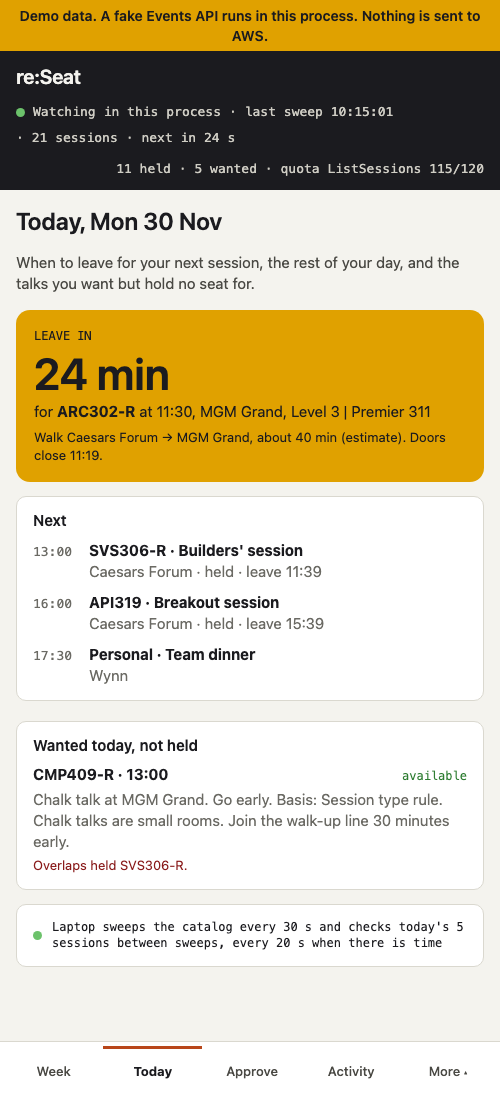
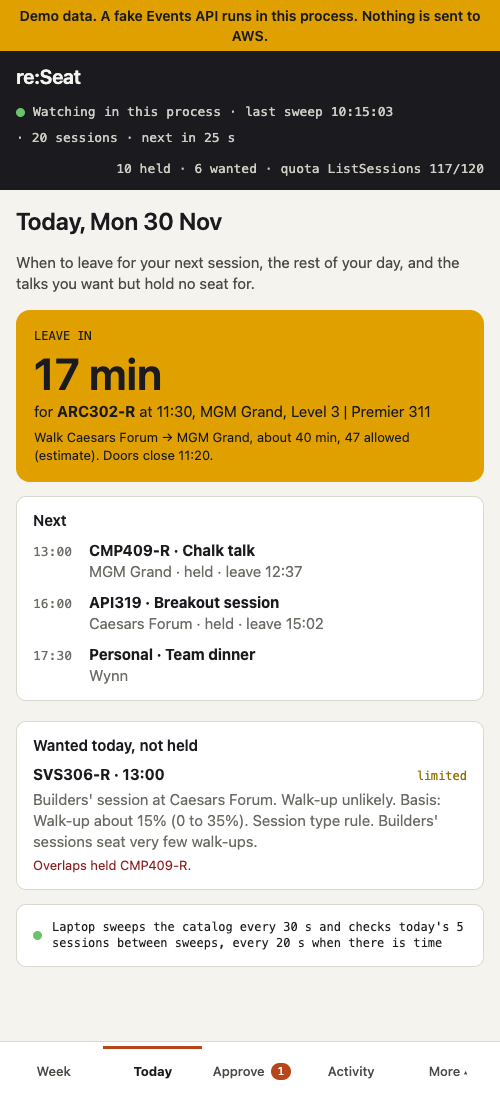
Show the real door time: AWS closes doors 10 minutes before (#18)
* Show the real door time: AWS closes doors 10 minutes before

AWS releases a reserved seat if the attendee is not there "at least
ten minutes prior to the session start time" (AWS re:Invent FAQ).
re:Seat plans arrivals 11 minutes before the start, one minute inside
that, but every screen that said "Doors close" showed the 11-minute
time.

Add campus.DOORS_CLOSE_MINUTES = 10. The Today hero and the week's
detail Leave row now show the real door time. check_plan's walk text
names both: lateness against the arrive-by time, and when the doors
close. Fit checks, lateness and leave-now blocks still use
CUTOFF_MINUTES (11), so no leave time moves and blocks already in the
official schedule are not rewritten. Docs, the MCP tool description
and the changelog now call 11 the arrive-by time.

* Refresh the demo GIF and screenshots from the current demo

The GIF and the four demo screenshots dated from 11 October and showed
"Doors close 11:19". Recaptured from reseat serve --demo on this
branch at the same sizes: Today now shows "Doors close 11:20", and the
week, approve and demo pages show the current layout. All are demo
data, with the demo banner on every frame. README alt text matches
what the new images show.

diff --git a/tests/test_planning.py b/tests/test_planning.py
@@ -333,8 +333,8 @@ def test_walk_out_across_a_meal_uses_the_next_held_venue(clock):
 
 
 @pytest.mark.parametrize("start,fits", [("12:37", True), ("12:38", False)])
-def test_ending_exactly_at_the_next_door_close_minute_fits(clock, start, fits):
-    # Same venue walk 10 min, allowance 12 at 0.8. Next held 14:00, doors close 13:49.
+def test_ending_exactly_at_the_next_arrive_by_minute_fits(clock, start, fits):
+    # Same venue walk 10 min, allowance 12 at 0.8. Next held 14:00, arrive by 13:49.
     # A 60 min session at 12:37 ends 13:37, plus 12 is 13:49: fits. One minute later does not.
     cat = [_s("H1", "AAA101", TUE, "09:00"), _s("H2", "BBB102", TUE, "14:00"), _s("X", "EDG300", TUE, start)]
     out = _slots(clock, cat, reserved={"H1", "H2"})
@@ -343,7 +343,7 @@ def test_ending_exactly_at_the_next_door_close_minute_fits(clock, start, fits):
 
 @pytest.mark.parametrize("start,fits", [("10:23", True), ("10:22", False)])
 def test_walk_in_boundary(clock, start, fits):
-    # Held ends 10:00 at The Venetian. 10:00 plus 12 min must be by doors close, start minus 11.
+    # Held ends 10:00 at The Venetian. 10:00 plus 12 min must be by the arrive-by time, start minus 11.
     cat = [_s("H1", "AAA101", TUE, "09:00"), _s("X", "EDG300", TUE, start)]
     assert ("EDG300" in codes(_slots(clock, cat, reserved={"H1"}))) is fits
 
@@ -623,7 +623,7 @@ def test_codes_in_one_plan_are_checked_against_each_other(world):
     assert "clashes with held ARC301" in _block(out, "SEC401")
     aim = _block(out, "AIM310")
     assert "cannot be reached in time: SEC401 ends 10:30 at The Venetian, the walk is about" in aim
-    assert "so arrival is about 10:42, 23 min after doors close at 10:19" in aim
+    assert "so arrival is about 10:42, 23 min after the arrive-by time of 10:19, doors close at 10:20" in aim
 
 
 async def test_check_plan_through_the_mcp_server(world):
@@ -771,7 +771,7 @@ def test_an_unknown_walk_in_still_needs_the_11_minutes(clock):
     fake, client, store, r = _world(clock, cat, {"H"}, "targets: []\n")
     near = P.check_plan(client, store, EV, r, ["NOV100"])
     assert ("cannot be reached in time: held AAA101 ends 10:00, the walk time is not known, "
-            "and doors close at 09:54") in near
+            "and the arrive-by time is 09:54, doors close at 09:55") in near
     assert _block(P.check_plan(client, store, EV, r, ["NOV200"]), "NOV200").strip().endswith("fits.")
 
 
@@ -785,7 +785,7 @@ def test_an_unknown_walk_out_still_needs_the_11_minutes(clock):
 
 @pytest.mark.parametrize("start,fits", [("10:23", True), ("10:22", False)])
 def test_check_plan_walk_in_boundary(clock, start, fits):
-    # Same venue walk 10 min, 12 allowed at 0.8. Held ends 10:00, so doors close by 10:12 at the latest.
+    # Same venue walk 10 min, 12 allowed at 0.8. Held ends 10:00, so arrive-by is 10:12 at the latest.
     cat = [_s("H", "AAA101", TUE, "09:00"), _s("X", "EDG300", TUE, start)]
     fake, client, store, r = _world(clock, cat, {"H"}, "targets: []\n")
     out = _block(P.check_plan(client, store, EV, r, ["EDG300"]), "EDG300")
@@ -1305,7 +1305,7 @@ def test_the_walk_problem_names_the_end_the_venue_and_the_arrival(clock):
     out = _block(P.check_plan(client, store, EV, r, ["AMZ202-R1"]), "AMZ202-R1")
     assert "held TNC337 ends 12:30 at Caesars Palace, the walk is about 12 min (estimate)" in out
     assert ("and 15 min is allowed, enough to arrive in time 80% of the time, so arrival is about 12:45, "
-            "26 min after doors close at 12:19") in out
+            "26 min after the arrive-by time of 12:19, doors close at 12:20") in out
     assert writes_sent(fake) == []
 
 
@@ -1404,7 +1404,7 @@ def test_the_walk_out_reads_in_full_and_names_no_held_prefix(world):
     out = _block(world[2].check_plan(["NET330"]), "NET330")
     assert ("leaves no time for DOP302: NET330 ends 13:30 at Wynn, the walk is about 55 min (estimate) "
             "and 65 min is allowed, enough to arrive in time 80% of the time, so arrival is about 14:35, "
-            "46 min after doors close at 13:49.") in out
+            "46 min after the arrive-by time of 13:49, doors close at 13:50.") in out
     assert "held NET330" not in out and writes_sent(world[0]) == []
 
 
@@ -1414,7 +1414,8 @@ def test_the_walk_from_a_planned_code_has_no_held_prefix_and_a_held_one_does(wor
     assert "cannot be reached in time: SEC401 ends 10:30" in aim and "held SEC401" not in out
     assert ("leaves no time for AIM310: SEC401 ends 10:30 at The Venetian, the walk is about 10 min "
             "(estimate) and 12 min is allowed, enough to arrive in time 80% of the time, "
-            "so arrival is about 10:42, 23 min after doors close at 10:19.") in _block(out, "SEC401")
+            "so arrival is about 10:42, 23 min after the arrive-by time of 10:19, "
+            "doors close at 10:20.") in _block(out, "SEC401")
     assert writes_sent(world[0]) == []
 
 
@@ -1423,17 +1424,17 @@ def test_an_unknown_walk_out_reads_in_full(clock):
     fake, client, store, r = _world(clock, cat, {"H"}, "targets: []\n")
     out = P.check_plan(client, store, EV, r, ["NOV100"])
     assert out.endswith("leaves no time for AAA101: NOV100 ends 10:55, the walk time is not known, "
-                        "and doors close at 10:49.")
+                        "and the arrive-by time is 10:49, doors close at 10:50.")
     assert writes_sent(fake) == []
 
 
 @pytest.mark.parametrize("start,late", [("10:22", 1), ("10:15", 8)])
-def test_minutes_late_is_arrival_less_doors(clock, start, late):
-    # Same venue, 12 min allowed at 0.8. Held ends 10:00, arrival 10:12, doors close 11 min before start.
+def test_minutes_late_is_arrival_less_arrive_by(clock, start, late):
+    # Same venue, 12 min allowed at 0.8. Held ends 10:00, arrival 10:12, arrive-by 11 min before start.
     cat = [_s("H", "AAA101", TUE, "09:00"), _s("X", "EDG300", TUE, start)]
     fake, client, store, r = _world(clock, cat, {"H"}, "targets: []\n")
     out = _block(P.check_plan(client, store, EV, r, ["EDG300"]), "EDG300")
-    assert f"so arrival is about 10:12, {late} min after doors close at" in out
+    assert f"so arrival is about 10:12, {late} min after the arrive-by time of" in out
     assert "cannot be reached in time: held AAA101 ends 10:00 at The Venetian" in out
     assert writes_sent(fake) == []
 

diff --git a/src/reseat/planning.py b/src/reseat/planning.py
@@ -24,7 +24,16 @@ from pathlib import Path
 
 from . import decisions
 from . import rules as R
-from .campus import CUTOFF_MINUTES, VEGAS, VENUES, event_date, normalize_venue, session_window, walk_minutes
+from .campus import (
+    CUTOFF_MINUTES,
+    DOORS_CLOSE_MINUTES,
+    VEGAS,
+    VENUES,
+    event_date,
+    normalize_venue,
+    session_window,
+    walk_minutes,
+)
 from .client import ApiError, EventsClient
 from .models import SeatBand, Session, normalize_type
 from .rules import Rules, Target
@@ -284,17 +293,17 @@ def _fits(s: Session, gap: tuple[datetime, datetime], busy: list[_Busy], rules: 
     w = _window(s)
     if not w or w[0] < gap[0] or w[1] > gap[1]:
         return None
-    door = timedelta(minutes=CUTOFF_MINUTES)
+    arrive_by = timedelta(minutes=CUTOFF_MINUTES)
     prev_end = max((b.end for b in busy if b.end <= w[0]), default=None)
     walk_in = walk_minutes(_origin(w[0], busy, rules.home_venue), s.campus_venue)
     allow_in = decisions.walk_allowance(walk_in, rules.arrive_confidence) if walk_in is not None else 0
-    if prev_end and prev_end + timedelta(minutes=allow_in) > w[0] - door:
+    if prev_end and prev_end + timedelta(minutes=allow_in) > w[0] - arrive_by:
         return None
     nxt = min((b for b in busy if b.start >= w[1] and not b.meal), key=lambda b: b.start, default=None)
     walk_out = walk_minutes(s.campus_venue, nxt.venue) if nxt else None
     if nxt:
         allow_out = decisions.walk_allowance(walk_out, rules.arrive_confidence) if walk_out is not None else 0
-        if w[1] + timedelta(minutes=allow_out) > nxt.start - door:
+        if w[1] + timedelta(minutes=allow_out) > nxt.start - arrive_by:
             return None
     return _Fit(s, walk_in, walk_out, nxt is not None)
 
@@ -387,22 +396,24 @@ class _Item:
 
 
 def _walk_problem(a: _Item, b: _Item, rules: Rules) -> str | None:
-    """Why b cannot be reached from a in time, or None. Same allowance and door rule as leave-now."""
-    door = timedelta(minutes=CUTOFF_MINUTES)
+    """Why b cannot be reached from a in time, or None. Same allowance and arrive-by rule as leave-now.
+    The text also names the real door time, DOORS_CLOSE_MINUTES before the start."""
+    arrive_by = timedelta(minutes=CUTOFF_MINUTES)
     walk = walk_minutes(a.session.campus_venue, b.session.campus_venue)
     allow = decisions.walk_allowance(walk, rules.arrive_confidence) if walk is not None else 0
-    doors, arrive = b.window[0] - door, a.window[1] + timedelta(minutes=allow)
-    if arrive <= doors:
+    by, arrive = b.window[0] - arrive_by, a.window[1] + timedelta(minutes=allow)
+    if arrive <= by:
         return None
+    doors = _clock(b.window[0] - timedelta(minutes=DOORS_CLOSE_MINUTES))
     end = f"{'held ' if a.held else ''}{_code(a)} ends {_clock(a.window[1])}"
     if walk is None:
         return (f"cannot be reached in time: {end}, the walk time is not known, "
-                f"and doors close at {_clock(doors)}")
-    late = int((arrive - doors).total_seconds() // 60)
+                f"and the arrive-by time is {_clock(by)}, doors close at {doors}")
+    late = int((arrive - by).total_seconds() // 60)
     return (f"cannot be reached in time: {end} at {a.session.campus_venue}, the walk is about {walk} min "
             f"(estimate) and {allow} min is allowed, enough to arrive in time "
             f"{round(rules.arrive_confidence * 100)}% of the time, so arrival is about {_clock(arrive)}, "
-            f"{late} min after doors close at {_clock(doors)}")
+            f"{late} min after the arrive-by time of {_clock(by)}, doors close at {doors}")
 
 
 def _code(i: _Item | Session) -> str:
@@ -476,7 +487,7 @@ def _codes(codes: list[str]) -> list[str] | str:
 
 def check_plan(client: EventsClient, store: Store, event_id: str, rules: Rules, codes: list[str]) -> str:
     """Facts about each code against what is held and against the rest of the list: in the catalog,
-    reservable, band, clashes, two sittings of one talk, walks with the door rule, meals, the daily
+    reservable, band, clashes, two sittings of one talk, walks with the arrive-by rule, meals, the daily
     cap and the watch cap. One GetSchedule read. Facts only, no pass mark."""
     got = _codes(codes)
     if isinstance(got, str):

diff --git a/tests/test_web.py b/tests/test_web.py
@@ -10,7 +10,7 @@ import pathlib
 import re
 import threading
 import time
-from datetime import datetime
+from datetime import datetime, timedelta
 
 import httpx
 import keyring
@@ -110,14 +110,28 @@ def test_today_view_has_the_leave_countdown_next_items_and_wanted(demo):
     assert t["label"] == "Mon 30 Nov"
     h = t["hero"]
     assert (h["code"], h["start"], h["venue"], h["origin"], h["walk"], h["doors"]) == (
-        "ARC302-R", "11:30", "MGM Grand", "Caesars Forum", 40, "11:19")
+        "ARC302-R", "11:30", "MGM Grand", "Caesars Forum", 40, "11:20")
     names = [n["name"] for n in t["next"]]
     assert names == ["CMP409-R · Chalk talk", "API319 · Breakout session", "Personal · Team dinner"]
     [w] = t["wanted"]
     assert w["code"] == "SVS306-R" and w["clash"] == "Overlaps held CMP409-R." and "Basis:" in w["text"]
     assert t["cover"].startswith("Laptop sweeps the catalog every 30 s and checks today's 5 sessions")
     html = pages.render_today(snap, demo=True)
-    assert "LEAVE IN" in html and "Doors close 11:19" in html and "Team dinner" in html
+    assert "LEAVE IN" in html and "Doors close 11:20" in html and "Team dinner" in html
+
+
+def test_doors_show_ten_but_the_leave_time_still_plans_for_eleven(demo):
+    # AWS closes the doors 10 min before the start. The leave time stays start minus 11 minus the allowance.
+    snap = demo.app.snapshot()
+    h = snap["view"]["today"]["hero"]
+    leave = datetime.fromtimestamp(h["leave_at"], VEGAS)
+    assert (h["start"], h["doors"]) == ("11:30", "11:20")
+    want = datetime(2026, 11, 30, 11, 30) - timedelta(minutes=11 + h["allow"])
+    assert leave.strftime("%H:%M") == want.strftime("%H:%M")
+    cmp = next(b for b in snap["view"]["week"]["blocks"] if b["code"] == "CMP409-R")
+    row = dict(cmp["detail"]["rows"])["Leave"]
+    allow = int(re.search(r"(\d+) allowed", row).group(1))
+    assert row.startswith((datetime(2026, 11, 30, 13, 0) - timedelta(minutes=11 + allow)).strftime("%H:%M"))
 
 
 def test_no_session_id_token_or_secret_in_any_view_or_the_json(demo):
@@ -935,6 +949,8 @@ def test_every_week_block_opens_a_detail_panel_with_its_facts(demo):
     rows = dict(cmp["detail"]["rows"])
     assert rows["When"].startswith("Monday 30 November, 13:00") and "MGM Grand" in rows["Where"]
     assert rows["Leave"].startswith("12:") and cmp["detail"]["status"] == "You hold this seat."
+    # AWS closes the doors 10 minutes before the start. The leave time keeps re:Seat's 11.
+    assert rows["Leave"].endswith("Doors close 10 min before the start, re:Seat plans for 11.")
     assert any(x["code"] == "CMP409-R1" for x in cmp["detail"]["sittings"])
     ant = next(b for b in blocks if b["code"] == "ANT335")
     assert "Queue or go" in dict(ant["detail"]["rows"]) and "Tight walk" in dict(ant["detail"]["rows"])

diff --git a/src/reseat/pages.py b/src/reseat/pages.py
@@ -25,7 +25,16 @@ from html import escape
 from typing import TYPE_CHECKING, Any
 
 from . import decisions, findings, guard
-from .campus import CUTOFF_MINUTES, EVENT_DAYS, VEGAS, from_personal_time, overlaps, room_label, walk_minutes
+from .campus import (
+    CUTOFF_MINUTES,
+    DOORS_CLOSE_MINUTES,
+    EVENT_DAYS,
+    VEGAS,
+    from_personal_time,
+    overlaps,
+    room_label,
+    walk_minutes,
+)
 from .changes import GHOSTS
 from .client import QUOTAS
 from .models import PersonalTime, Session
@@ -534,7 +543,8 @@ def _detail(app: App, blk: dict[str, Any], leave: guard.Block | None, held: set[
         walk = (f", about {leave.walk} min walk from {leave.origin}, {leave.allow} allowed (estimate)"
                 if leave.walk is not None
                 else "")
-        rows.append(("Leave", f"{at:%H:%M}{walk}. Doors close {CUTOFF_MINUTES} min before the start."))
+        rows.append(("Leave", f"{at:%H:%M}{walk}. Doors close {DOORS_CLOSE_MINUTES} min before the start, "
+                              f"re:Seat plans for {CUTOFF_MINUTES}."))
     if blk.get("moved"):
         rows.append(("Moved", f"Now in {blk['moved']}"))
     if blk.get("walk_note"):
@@ -661,7 +671,8 @@ def _today(app: App, held: list[Session], wanted: list[tuple[Any, list[Session]]
         if a.timestamp() > now:                  # held until it starts: a missed leave time shows as now
             hero = {"code": s.abbreviation, "start": f"{a:%H:%M}", "venue": s.campus_venue or "",
                     "room": s.room_label or "", "origin": b.origin or "", "walk": b.walk, "allow": b.allow,
-                    "leave_at": leave_at, "doors": (a - timedelta(minutes=CUTOFF_MINUTES)).strftime("%H:%M")}
+                    "leave_at": leave_at,
+                    "doors": (a - timedelta(minutes=DOORS_CLOSE_MINUTES)).strftime("%H:%M")}
             break
     nxt: list[tuple[datetime, dict[str, Any]]] = []
     for s in today:

diff --git a/src/reseat/mcp_server.py b/src/reseat/mcp_server.py
@@ -595,7 +595,7 @@ def build_server(tools: Tools) -> Any:
     @server.tool()
     def check_plan(codes: list[str]) -> str:
         """Facts about up to 25 session codes against what is held and against each other: in the
-        catalog, seat band, clashes, two sittings of one talk, walks with the 11-minute door rule,
+        catalog, seat band, clashes, two sittings of one talk, walks with the 11-minute arrive-by rule,
         meals, max_per_day and watch_cap. A base code such as AIM341 checks every sitting. An exact
         code such as AIM341-R1 checks that sitting. Reads the schedule once. Writes nothing."""
         with tools.serial:

diff --git a/tests/test_campus.py b/tests/test_campus.py
@@ -2,6 +2,7 @@ from datetime import UTC, datetime
 
 from reseat.campus import (
     CUTOFF_MINUTES,
+    DOORS_CLOSE_MINUTES,
     VENUES,
     from_personal_time,
     normalize_venue,
@@ -62,6 +63,11 @@ def test_overlap():
 
 def test_cutoff_is_eleven():
     assert CUTOFF_MINUTES == 11
+
+
+def test_doors_close_ten_minutes_before_the_start():
+    # AWS FAQ: "at least ten minutes prior to the session start time". re:Seat plans one minute inside it.
+    assert DOORS_CLOSE_MINUTES == 10 and CUTOFF_MINUTES == DOORS_CLOSE_MINUTES + 1
 
 
 def test_normalize_real_2026_strings():

diff --git a/src/reseat/campus.py b/src/reseat/campus.py
@@ -56,7 +56,8 @@ EVENT_DAYS = {
     "thursday": "2026-12-03", "friday": "2026-12-04",
 }
 SAME_VENUE_MINUTES = 10
-CUTOFF_MINUTES = 11  # AWS says 10. Veterans say 11 to avoid arguing at the door.
+DOORS_CLOSE_MINUTES = 10  # AWS FAQ: be there "at least ten minutes prior to the session start time".
+CUTOFF_MINUTES = 11  # re:Seat's arrive-by time, one minute inside the doors. Veterans say 11.
 
 
 # The 2026 catalog names one combined venue "Wynn/Encore". Encore's meeting

diff --git a/docs/guide/mcp.md b/docs/guide/mcp.md
@@ -39,7 +39,7 @@ Use the file for every project where you can. A project file holds only a path, 
 - Claude Code: `claude plugin marketplace add hsiddhu2/reseat`, then `claude plugin install reseat-demo@reseat` or `claude plugin install reseat@reseat`. In a session, the same commands start with `/plugin`. Checked: `reseat-demo` installs this way and its server connects.
 - Kiro: clone this repository, open the Powers panel, choose Add Custom Power, then import a power from a folder, and pick `plugins/kiro/reseat-demo` or `plugins/kiro/reseat`. The files follow Kiro's Agent Plugins format and pass its published schemas. Checked on 26 October: a copy of `plugins/kiro/reseat-demo`, placed at a path with no spaces, imported this way, and its `check_plan` tool answered in Kiro chat. An import straight from a clone whose path held a folder name ending in a space was refused with "The selected folder is not a valid power directory". Whether the path or the folder picked caused it was not narrowed down. If you see that message, pick the folder holding `plugin.json`, or copy it to a plain path. The `reseat` power has not been imported.
 
-Tools: `list_targets`, `propose_changes`, `propose_swap`, `propose_favorites`, `approve_changes`, `explain_drift`, `guard_sync`, `queue_or_go`, and for planning `search_sessions`, `open_slots`, `check_plan` and `draft_rules`. `search_sessions` searches the local catalog by text, type, day, venue, seat band, level, topic and service, and sends nothing to AWS. `open_slots(day)` reads your schedule once and lists the free gaps between 08:00 and 18:00, with the sessions you can walk to and away from in time. `check_plan(codes)` takes up to 25 session codes and states, for each, whether it fits what you hold and the rest of the list: clashes, two sittings of one talk, walks that miss the 11-minute door rule, meals, `max_per_day` and `watch_cap`. A full sitting lists the other open sittings of the talk. `draft_rules(add, remove)` drafts a new rules file: the codes in `add` go after your current targets in the order given, and the answer shows the whole target order. re:Seat tries targets in that order, so an earlier target wins a clashing time slot. An exact code such as AIM341-R1 pins that sitting. A code without -R such as AIM341 takes any sitting, so a repeat AWS adds later can still be booked. Removing a target you hold only stops re:Seat watching it, and never cancels the seat. Drafted targets ask first before any cancel. Autopilot is opt-in per target. `draft_rules(add, remove, autopilot)` turns on `auto_swap` only for the codes in `autopilot`, each one added in the same draft or already a target. For an existing target only its `auto_swap` changes. Any other code in `autopilot` is refused and nothing is drafted. The answer names every target that may swap on its own. Such a swap cancels a seat only after a fresh read shows the new seat open and a way back to the old one. The AI asks you before it sets `autopilot`. Approving the draft writes only your local rules file, keeps the old one as `rules.yaml.bak`, and sends nothing to AWS. Comments and settings in the file stay as they were. Once `reseat serve` runs with the new rules, the watcher books a new target when a seat frees, as it does for every target. The planning tools list in start-time order, or in the order you gave. re:Seat lists and checks, and leaves the choosing to you. Every change is two steps. `propose_changes`, `propose_swap`, `propose_favorites` or `guard_sync` returns a plan id and sends nothing. `propose_favorites(prune)` lists what `reseat favorites sync --dry-run` would send: each target sitting not yet in your official AWS favorites, by session code and title. With `prune` on (off by default), it also lists the favorites re:Seat itself added for a target no longer in your rules. A favorite you added, or one for a seat you hold, is never listed. If nothing would change, it says so and makes no plan. Approving it writes only favorites, never a seat: AssociateFavorites in batches of up to 10 within the quota left, DisassociateFavorite for each removal, then one GetSchedule read-back. It sends only the sessions the plan listed, and skips any that a fresh read shows are done already. The answer lists each as added, already favorited, failed, unconfirmed or not sent, as the CLI does. A failed session is never sent again. A 409 stops the run, and a 429 waits Retry-After once. `propose_swap(held_code)` finds an open sitting of a held talk that your rules put before the one you hold, runs the swap's checks with fresh reads, and lists them. Approving it runs the same checked swap as `reseat swap`. `approve_changes` carries that plan out once, within 10 minutes, and reserves only what it named. A leave-now plan is refused if what you hold changed after it was shown. Calls run one at a time. No tool takes a list of session ids. Each call reads the rules file again if it changed on disk since the last call, so a server left running for days answers from the file as it is now. Any change drops the plans made before it. A file that does not load, has more targets than `watch_cap`, is a symbolic link, or on macOS and Linux belongs to another user or is writable by others, is refused, the old rules stay, and the next answer says why.
+Tools: `list_targets`, `propose_changes`, `propose_swap`, `propose_favorites`, `approve_changes`, `explain_drift`, `guard_sync`, `queue_or_go`, and for planning `search_sessions`, `open_slots`, `check_plan` and `draft_rules`. `search_sessions` searches the local catalog by text, type, day, venue, seat band, level, topic and service, and sends nothing to AWS. `open_slots(day)` reads your schedule once and lists the free gaps between 08:00 and 18:00, with the sessions you can walk to and away from in time. `check_plan(codes)` takes up to 25 session codes and states, for each, whether it fits what you hold and the rest of the list: clashes, two sittings of one talk, walks that miss the 11-minute arrive-by rule (AWS closes the doors 10 minutes before the start), meals, `max_per_day` and `watch_cap`. A full sitting lists the other open sittings of the talk. `draft_rules(add, remove)` drafts a new rules file: the codes in `add` go after your current targets in the order given, and the answer shows the whole target order. re:Seat tries targets in that order, so an earlier target wins a clashing time slot. An exact code such as AIM341-R1 pins that sitting. A code without -R such as AIM341 takes any sitting, so a repeat AWS adds later can still be booked. Removing a target you hold only stops re:Seat watching it, and never cancels the seat. Drafted targets ask first before any cancel. Autopilot is opt-in per target. `draft_rules(add, remove, autopilot)` turns on `auto_swap` only for the codes in `autopilot`, each one added in the same draft or already a target. For an existing target only its `auto_swap` changes. Any other code in `autopilot` is refused and nothing is drafted. The answer names every target that may swap on its own. Such a swap cancels a seat only after a fresh read shows the new seat open and a way back to the old one. The AI asks you before it sets `autopilot`. Approving the draft writes only your local rules file, keeps the old one as `rules.yaml.bak`, and sends nothing to AWS. Comments and settings in the file stay as they were. Once `reseat serve` runs with the new rules, the watcher books a new target when a seat frees, as it does for every target. The planning tools list in start-time order, or in the order you gave. re:Seat lists and checks, and leaves the choosing to you. Every change is two steps. `propose_changes`, `propose_swap`, `propose_favorites` or `guard_sync` returns a plan id and sends nothing. `propose_favorites(prune)` lists what `reseat favorites sync --dry-run` would send: each target sitting not yet in your official AWS favorites, by session code and title. With `prune` on (off by default), it also lists the favorites re:Seat itself added for a target no longer in your rules. A favorite you added, or one for a seat you hold, is never listed. If nothing would change, it says so and makes no plan. Approving it writes only favorites, never a seat: AssociateFavorites in batches of up to 10 within the quota left, DisassociateFavorite for each removal, then one GetSchedule read-back. It sends only the sessions the plan listed, and skips any that a fresh read shows are done already. The answer lists each as added, already favorited, failed, unconfirmed or not sent, as the CLI does. A failed session is never sent again. A 409 stops the run, and a 429 waits Retry-After once. `propose_swap(held_code)` finds an open sitting of a held talk that your rules put before the one you hold, runs the swap's checks with fresh reads, and lists them. Approving it runs the same checked swap as `reseat swap`. `approve_changes` carries that plan out once, within 10 minutes, and reserves only what it named. A leave-now plan is refused if what you hold changed after it was shown. Calls run one at a time. No tool takes a list of session ids. Each call reads the rules file again if it changed on disk since the last call, so a server left running for days answers from the file as it is now. Any change drops the plans made before it. A file that does not load, has more targets than `watch_cap`, is a symbolic link, or on macOS and Linux belongs to another user or is writable by others, is refused, the old rules stay, and the next answer says why.
 
 Try it without signing in: `reseat mcp --demo` serves the same tools on the demo's fake API, with a week of sessions held and a seat open, so a client can list targets, plan and approve leave-now blocks, ask queue-or-go, and draft a rules file. The demo's rules file is a throwaway copy in a temporary folder. Nothing reaches AWS. `python demo/plan.py` runs the four planning tools in the order an AI app would call them.
 

diff --git a/docs/architecture.md b/docs/architecture.md
@@ -72,7 +72,7 @@ Full detail, with sources, is in [api-facts.md](api-facts.md).
 - Ask first by default. Auto mode is opt-in per target. `reseat swap <held> <wanted>` and the watcher use the same code.
 
 **Guard** (built)
-- `reseat guard sync` writes a 5-minute leave-now block into personal time for each held session, from venue walking times, an 11-minute cutoff and the attendee's buffer. The first walk of a day starts at `home_venue` from the rules file.
+- `reseat guard sync` writes a 5-minute leave-now block into personal time for each held session, from venue walking times, an 11-minute arrive-by time and the attendee's buffer. The first walk of a day starts at `home_venue` from the rules file.
 - Creates, updates or deletes blocks to match current holds. A second run sends nothing. It only touches its own entries, whose description starts "Leave now by reseat." and ends "Set by reseat". Entries in the earlier `[reseat]` form are still recognised. Descriptions avoid `: ( ) [ ]`. The live API refused a description holding all five and accepted it without them.
 - Warns when the walk between two held sessions is longer than the gap.
 - Queue or go: for a session not held, advice from session type, overridden by that session's band history once it has three changes. Presented as a heuristic with its basis, never a prediction. The web app's Today view shows it.
@@ -100,7 +100,7 @@ Full detail, with sources, is in [api-facts.md](api-facts.md).
 **Interfaces**
 - CLI (built): `login`, `whoami`, `sync`, `search`, `show`, `schedule`, `findings`, `favorite`, `favorites sync`, `probe`, `rules`, `book`, `cancel`, `watch`, `swap`, `guard sync`, `serve`, `mcp`.
 - Web app (built), as above. `reseat serve`. The same engine as the CLI and the MCP server.
-- Local MCP server (built): `reseat mcp`, over stdio. Twelve tools: `list_targets`, `propose_changes`, `propose_swap`, `propose_favorites`, `approve_changes`, `explain_drift`, `guard_sync`, `queue_or_go`, and the planning tools `search_sessions`, `open_slots`, `check_plan` and `draft_rules` from `planning.py` (built). Planning answers are in start-time order, never by merit. `search_sessions` reads the local catalog only, at most 50 rows. `open_slots` reads GetSchedule once and checks each walk in and out with the same allowance and 11-minute door rule as leave-now blocks. Catalog text reaching the AI has control and hidden characters removed. `check_plan` reads GetSchedule once and states facts per code against what is held and the rest of the list, with no pass mark. A walk is checked from whatever ends last before the session to whatever starts first after it. `draft_rules` returns a plan id and the full resulting target order. A code with -R pins that sitting, a code without -R is any sitting of the talk, and a talk already a target is not added twice. It edits the target lines of the rules file as text, so comments and every other setting are kept, then parses the result and refuses unless only the targets changed as intended. `approve_changes` writes it only if the file is unchanged since the draft, keeps a `.bak`, and sends nothing to the API. Drafted targets have `auto_swap: false` unless named in `autopilot`. Autopilot is opt-in per target. A code in `autopilot` is added in the same draft or is already a target, else nothing is drafted. For an existing target only `auto_swap` is turned on, and the check refuses any other change. The answer names every target that may swap on its own. Removing a held target stops watching it and never cancels. `propose_swap(held_code)` finds an open sitting of a held talk that the rules put first, runs the swap's checks with fresh reads, and returns a plan. Approving it runs `swap.py`. The proposal's journal record ends as `planned` or `declined`. Nothing is sent until the approve. `propose_favorites(prune)` runs `favorites.py` as a dry run and returns a plan of the favorites to add, and with `prune` the ones re:Seat added for dropped targets to remove, by code and title. Approving it runs the same `favorites.sync` as `reseat favorites sync`, limited to the sessions the plan named: quota-sized AssociateFavorites batches, no re-send of a failed session, one GetSchedule read-back. Every change is two steps. A propose returns a plan id and sends nothing. `approve_changes(plan_id)` carries it out once, within 10 minutes, and reserves only what the plan named. Calls run one at a time. Before each call the server re-reads the rules file if its time, size, inode or mode changed, without following a link, with the watcher's checks: a file that does not load, exceeds `watch_cap`, is a symbolic link, belongs to another user or that others can write keeps the old rules, and that call's answer starts with why. Any change drops every pending plan, so nothing proposed under the old rules can be approved. A reloaded file holding a secret that others can read gets the same warning as at start. A leave-now plan is refused if holds changed after it was shown. No tool takes a list of session ids. The approval step is an instruction to the agent, not something the server can enforce.
+- Local MCP server (built): `reseat mcp`, over stdio. Twelve tools: `list_targets`, `propose_changes`, `propose_swap`, `propose_favorites`, `approve_changes`, `explain_drift`, `guard_sync`, `queue_or_go`, and the planning tools `search_sessions`, `open_slots`, `check_plan` and `draft_rules` from `planning.py` (built). Planning answers are in start-time order, never by merit. `search_sessions` reads the local catalog only, at most 50 rows. `open_slots` reads GetSchedule once and checks each walk in and out with the same allowance and 11-minute arrive-by rule as leave-now blocks. Catalog text reaching the AI has control and hidden characters removed. `check_plan` reads GetSchedule once and states facts per code against what is held and the rest of the list, with no pass mark. A walk is checked from whatever ends last before the session to whatever starts first after it. `draft_rules` returns a plan id and the full resulting target order. A code with -R pins that sitting, a code without -R is any sitting of the talk, and a talk already a target is not added twice. It edits the target lines of the rules file as text, so comments and every other setting are kept, then parses the result and refuses unless only the targets changed as intended. `approve_changes` writes it only if the file is unchanged since the draft, keeps a `.bak`, and sends nothing to the API. Drafted targets have `auto_swap: false` unless named in `autopilot`. Autopilot is opt-in per target. A code in `autopilot` is added in the same draft or is already a target, else nothing is drafted. For an existing target only `auto_swap` is turned on, and the check refuses any other change. The answer names every target that may swap on its own. Removing a held target stops watching it and never cancels. `propose_swap(held_code)` finds an open sitting of a held talk that the rules put first, runs the swap's checks with fresh reads, and returns a plan. Approving it runs `swap.py`. The proposal's journal record ends as `planned` or `declined`. Nothing is sent until the approve. `propose_favorites(prune)` runs `favorites.py` as a dry run and returns a plan of the favorites to add, and with `prune` the ones re:Seat added for dropped targets to remove, by code and title. Approving it runs the same `favorites.sync` as `reseat favorites sync`, limited to the sessions the plan named: quota-sized AssociateFavorites batches, no re-send of a failed session, one GetSchedule read-back. Every change is two steps. A propose returns a plan id and sends nothing. `approve_changes(plan_id)` carries it out once, within 10 minutes, and reserves only what the plan named. Calls run one at a time. Before each call the server re-reads the rules file if its time, size, inode or mode changed, without following a link, with the watcher's checks: a file that does not load, exceeds `watch_cap`, is a symbolic link, belongs to another user or that others can write keeps the old rules, and that call's answer starts with why. Any change drops every pending plan, so nothing proposed under the old rules can be approved. A reloaded file holding a secret that others can read gets the same warning as at start. A leave-now plan is refused if holds changed after it was shown. No tool takes a list of session ids. The approval step is an instruction to the agent, not something the server can enforce.
 
 ## Architecture
 

diff --git a/README.md b/README.md
@@ -84,7 +84,7 @@ With your own seats, `reseat serve` runs the watcher and the same web app at `ht
 
 | Week, laptop width | Approve, phone width | Today, phone width |
 |---|---|---|
-| ![Week: status line, a swap waiting for approval, what just changed, and the week grid with a NEW label](https://raw.githubusercontent.com/hsiddhu2/reseat/main/docs/screenshots/week.png) | ![Approve: the held and opened sessions side by side, the checks and one button](https://raw.githubusercontent.com/hsiddhu2/reseat/main/docs/screenshots/approve.png) | ![Today: leave-in countdown, next sessions, wanted sessions with queue-or-go advice](https://raw.githubusercontent.com/hsiddhu2/reseat/main/docs/screenshots/today.png) |
+| ![Week: status line, a swap waiting for approval, what just changed, and the week grid with a PROPOSED label](https://raw.githubusercontent.com/hsiddhu2/reseat/main/docs/screenshots/week.png) | ![Approve: the held and opened sessions side by side, the checks, and Swap now or Keep](https://raw.githubusercontent.com/hsiddhu2/reseat/main/docs/screenshots/approve.png) | ![Today: leave-in countdown, next sessions, wanted sessions with queue-or-go advice](https://raw.githubusercontent.com/hsiddhu2/reseat/main/docs/screenshots/today.png) |
 
 ![Demo page: a scenario list, and beside it what AWS did, what re:Seat did, the week before and after, and the phone's notification](https://raw.githubusercontent.com/hsiddhu2/reseat/main/docs/screenshots/demo.png)
 

diff --git a/docs/models.md b/docs/models.md
@@ -41,7 +41,7 @@ Tests: [5xx on a booking is read back, not retried](../tests/test_router.py#L262
 
 ## 4. Leave in time with a chosen confidence
 
-**The problem.** Doors close 11 minutes before a session. The walk between two venues varies with crowds and wayfinding, and a single number is wrong half the time.
+**The problem.** AWS closes the doors 10 minutes before a session, and re:Seat plans to arrive by 11. The walk between two venues varies with crowds and wayfinding, and a single number is wrong half the time.
 
 **The model.** Fan, Kalaba and Moore frame route choice as maximising the probability of arriving by a deadline ("Arriving on time", JOTA 127(3), 2005, pp. 497 to 513, doi:10.1007/s10957-005-7498-5). For one fixed route this becomes: leave at the deadline minus the alpha-quantile of the travel time. That quantile is the planning time behind the US Federal Highway Administration's buffer index, (95th percentile time minus average time) / average time ("Travel Time Reliability: Making It There On Time, All The Time", 2005). Walking speeds vary around their mean with a standard deviation of 19.3 percent, 0.26 m/s around 1.34 m/s (Weidmann, "Transporttechnik der Fussgänger", Schriftenreihe des IVT 90, ETH Zürich, 2nd ed. 1993, section 5.12.6).
 

diff --git a/docs/adr/0010-time.md b/docs/adr/0010-time.md
@@ -13,7 +13,7 @@ Until the spec changed after 2 October 2026, personal time was UTC. re:Seat foll
 
 ## Decision
 
-All conversion and formatting goes through `campus.py`. GetEvent's zone is checked, never its label. Times are computed in America/Los_Angeles, and an event in another zone is refused. Leave times use the walking table and an 11-minute door rule. Walking figures are labelled estimates.
+All conversion and formatting goes through `campus.py`. GetEvent's zone is checked, never its label. Times are computed in America/Los_Angeles, and an event in another zone is refused. Leave times use the walking table and an 11-minute arrive-by time, one minute inside the 10 minutes before the start when AWS closes the doors. Walking figures are labelled estimates.
 
 ## Alternatives considered
 
